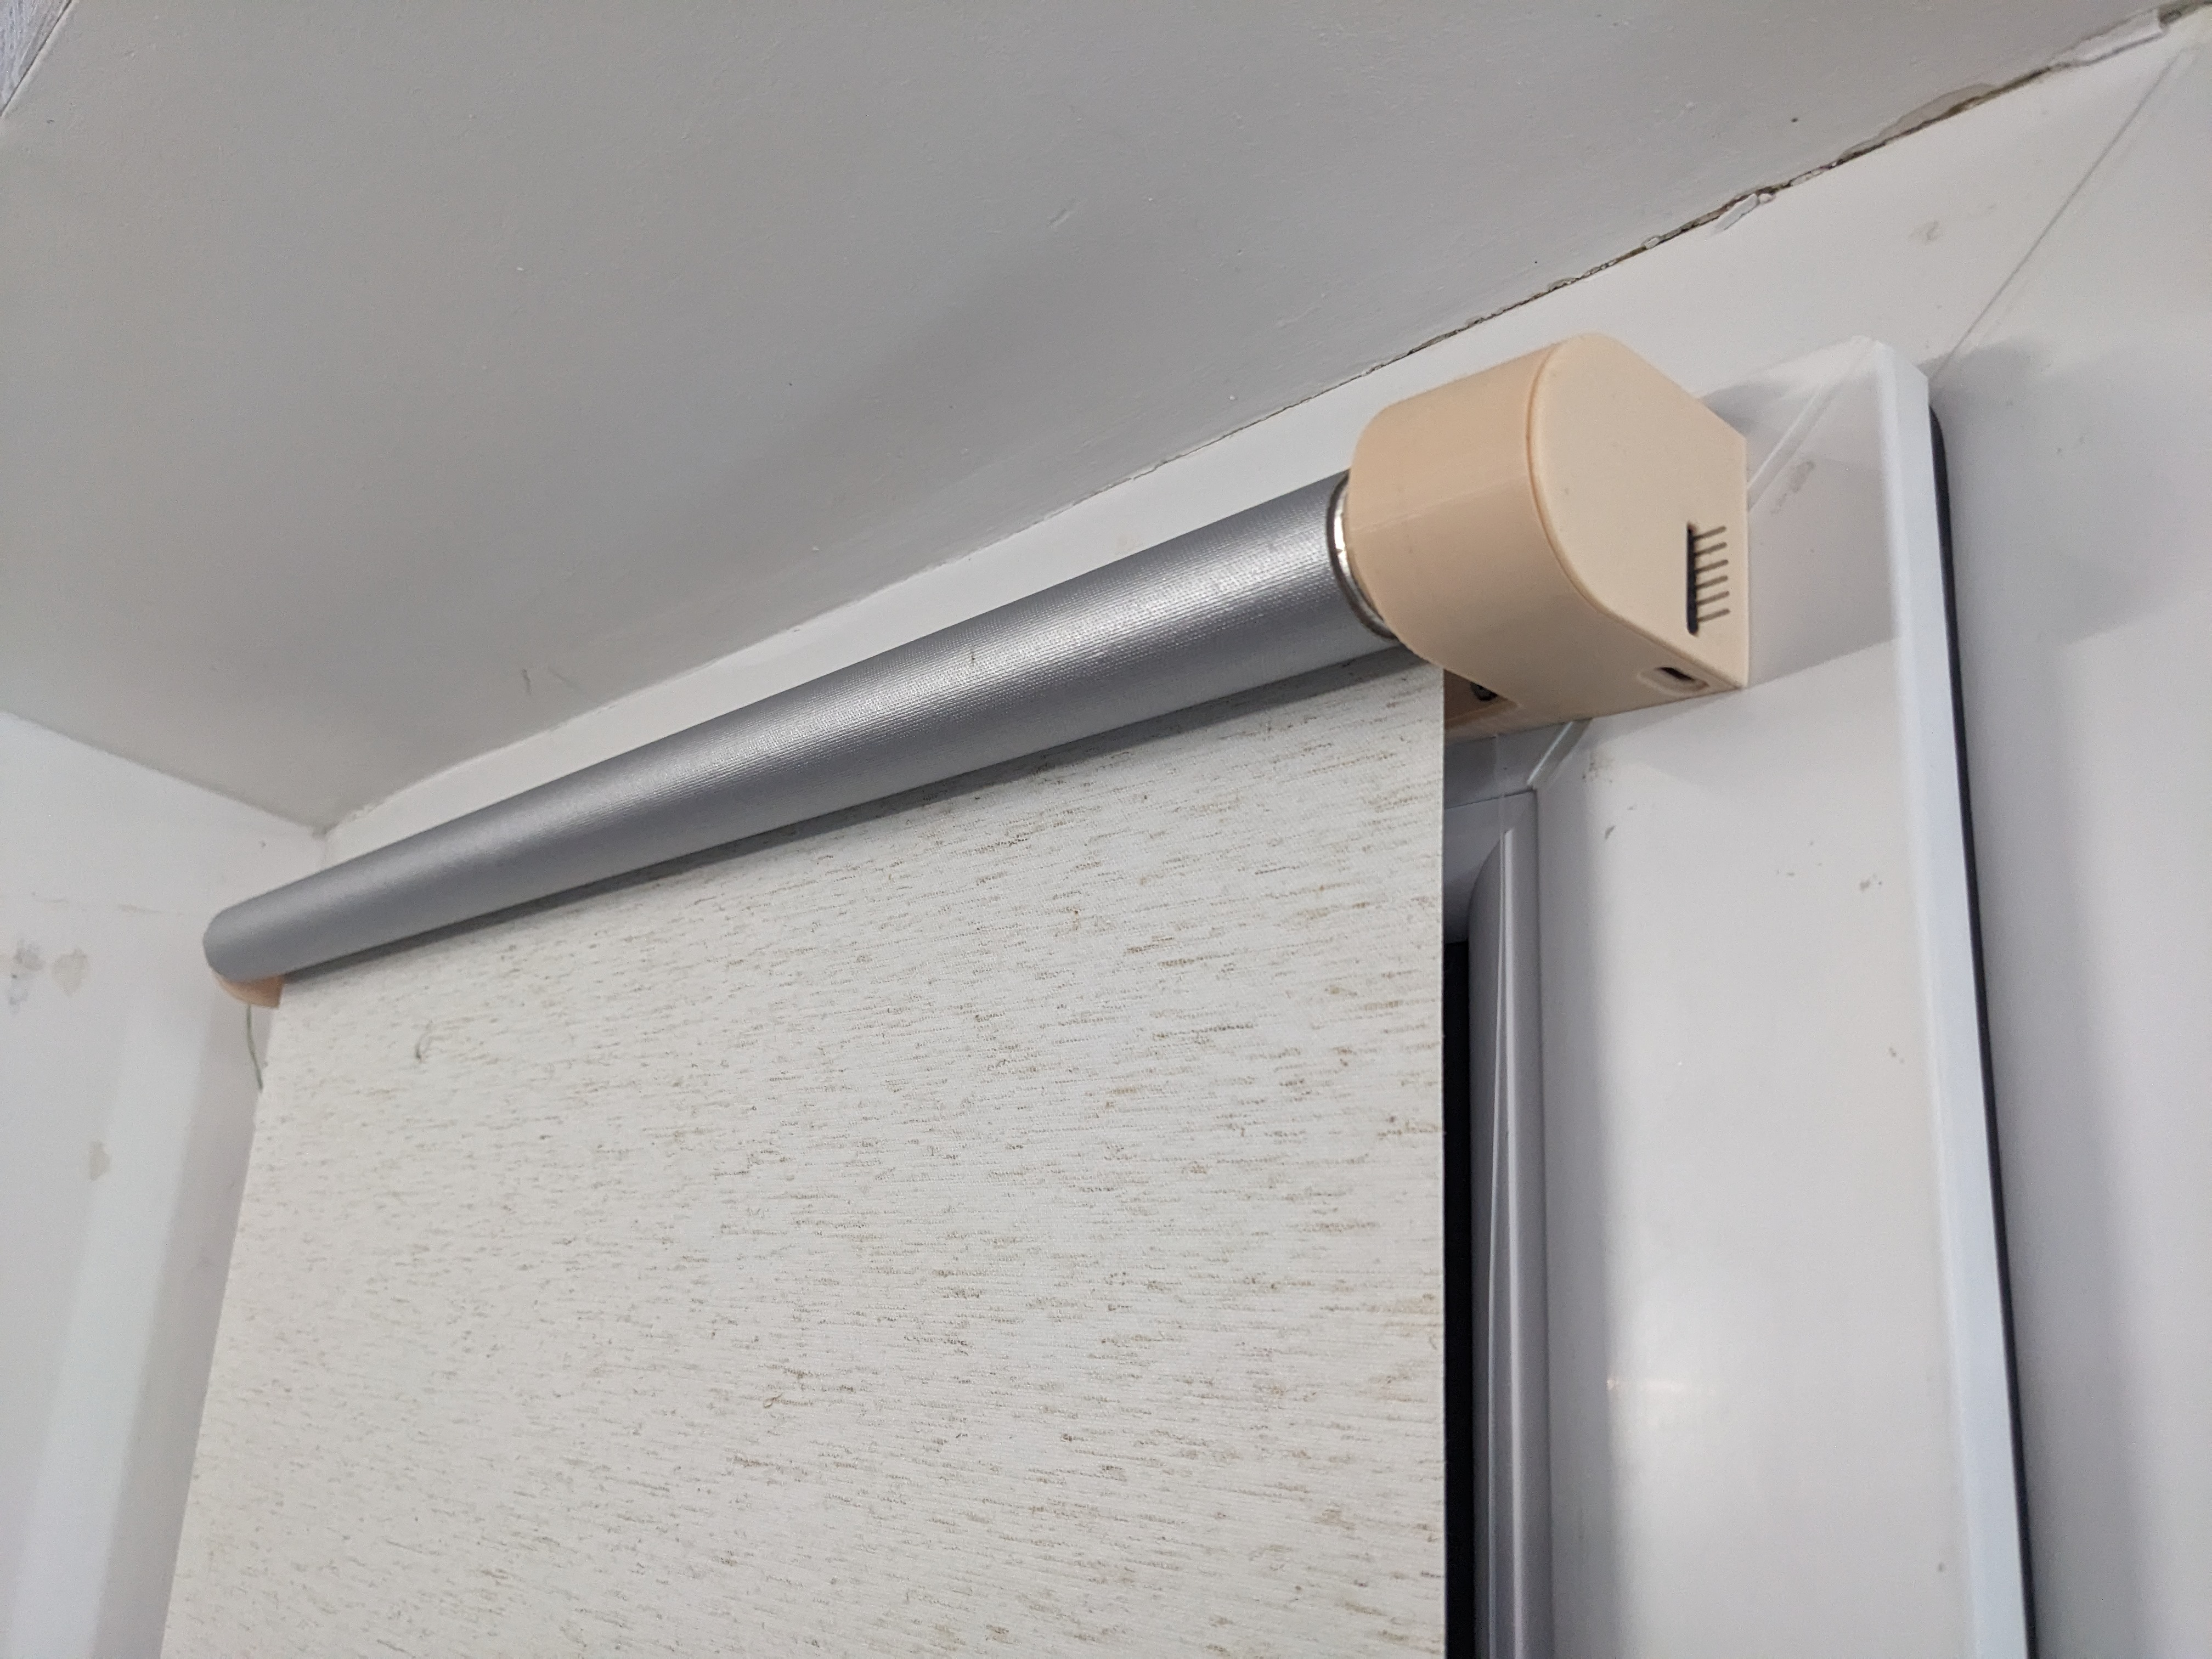
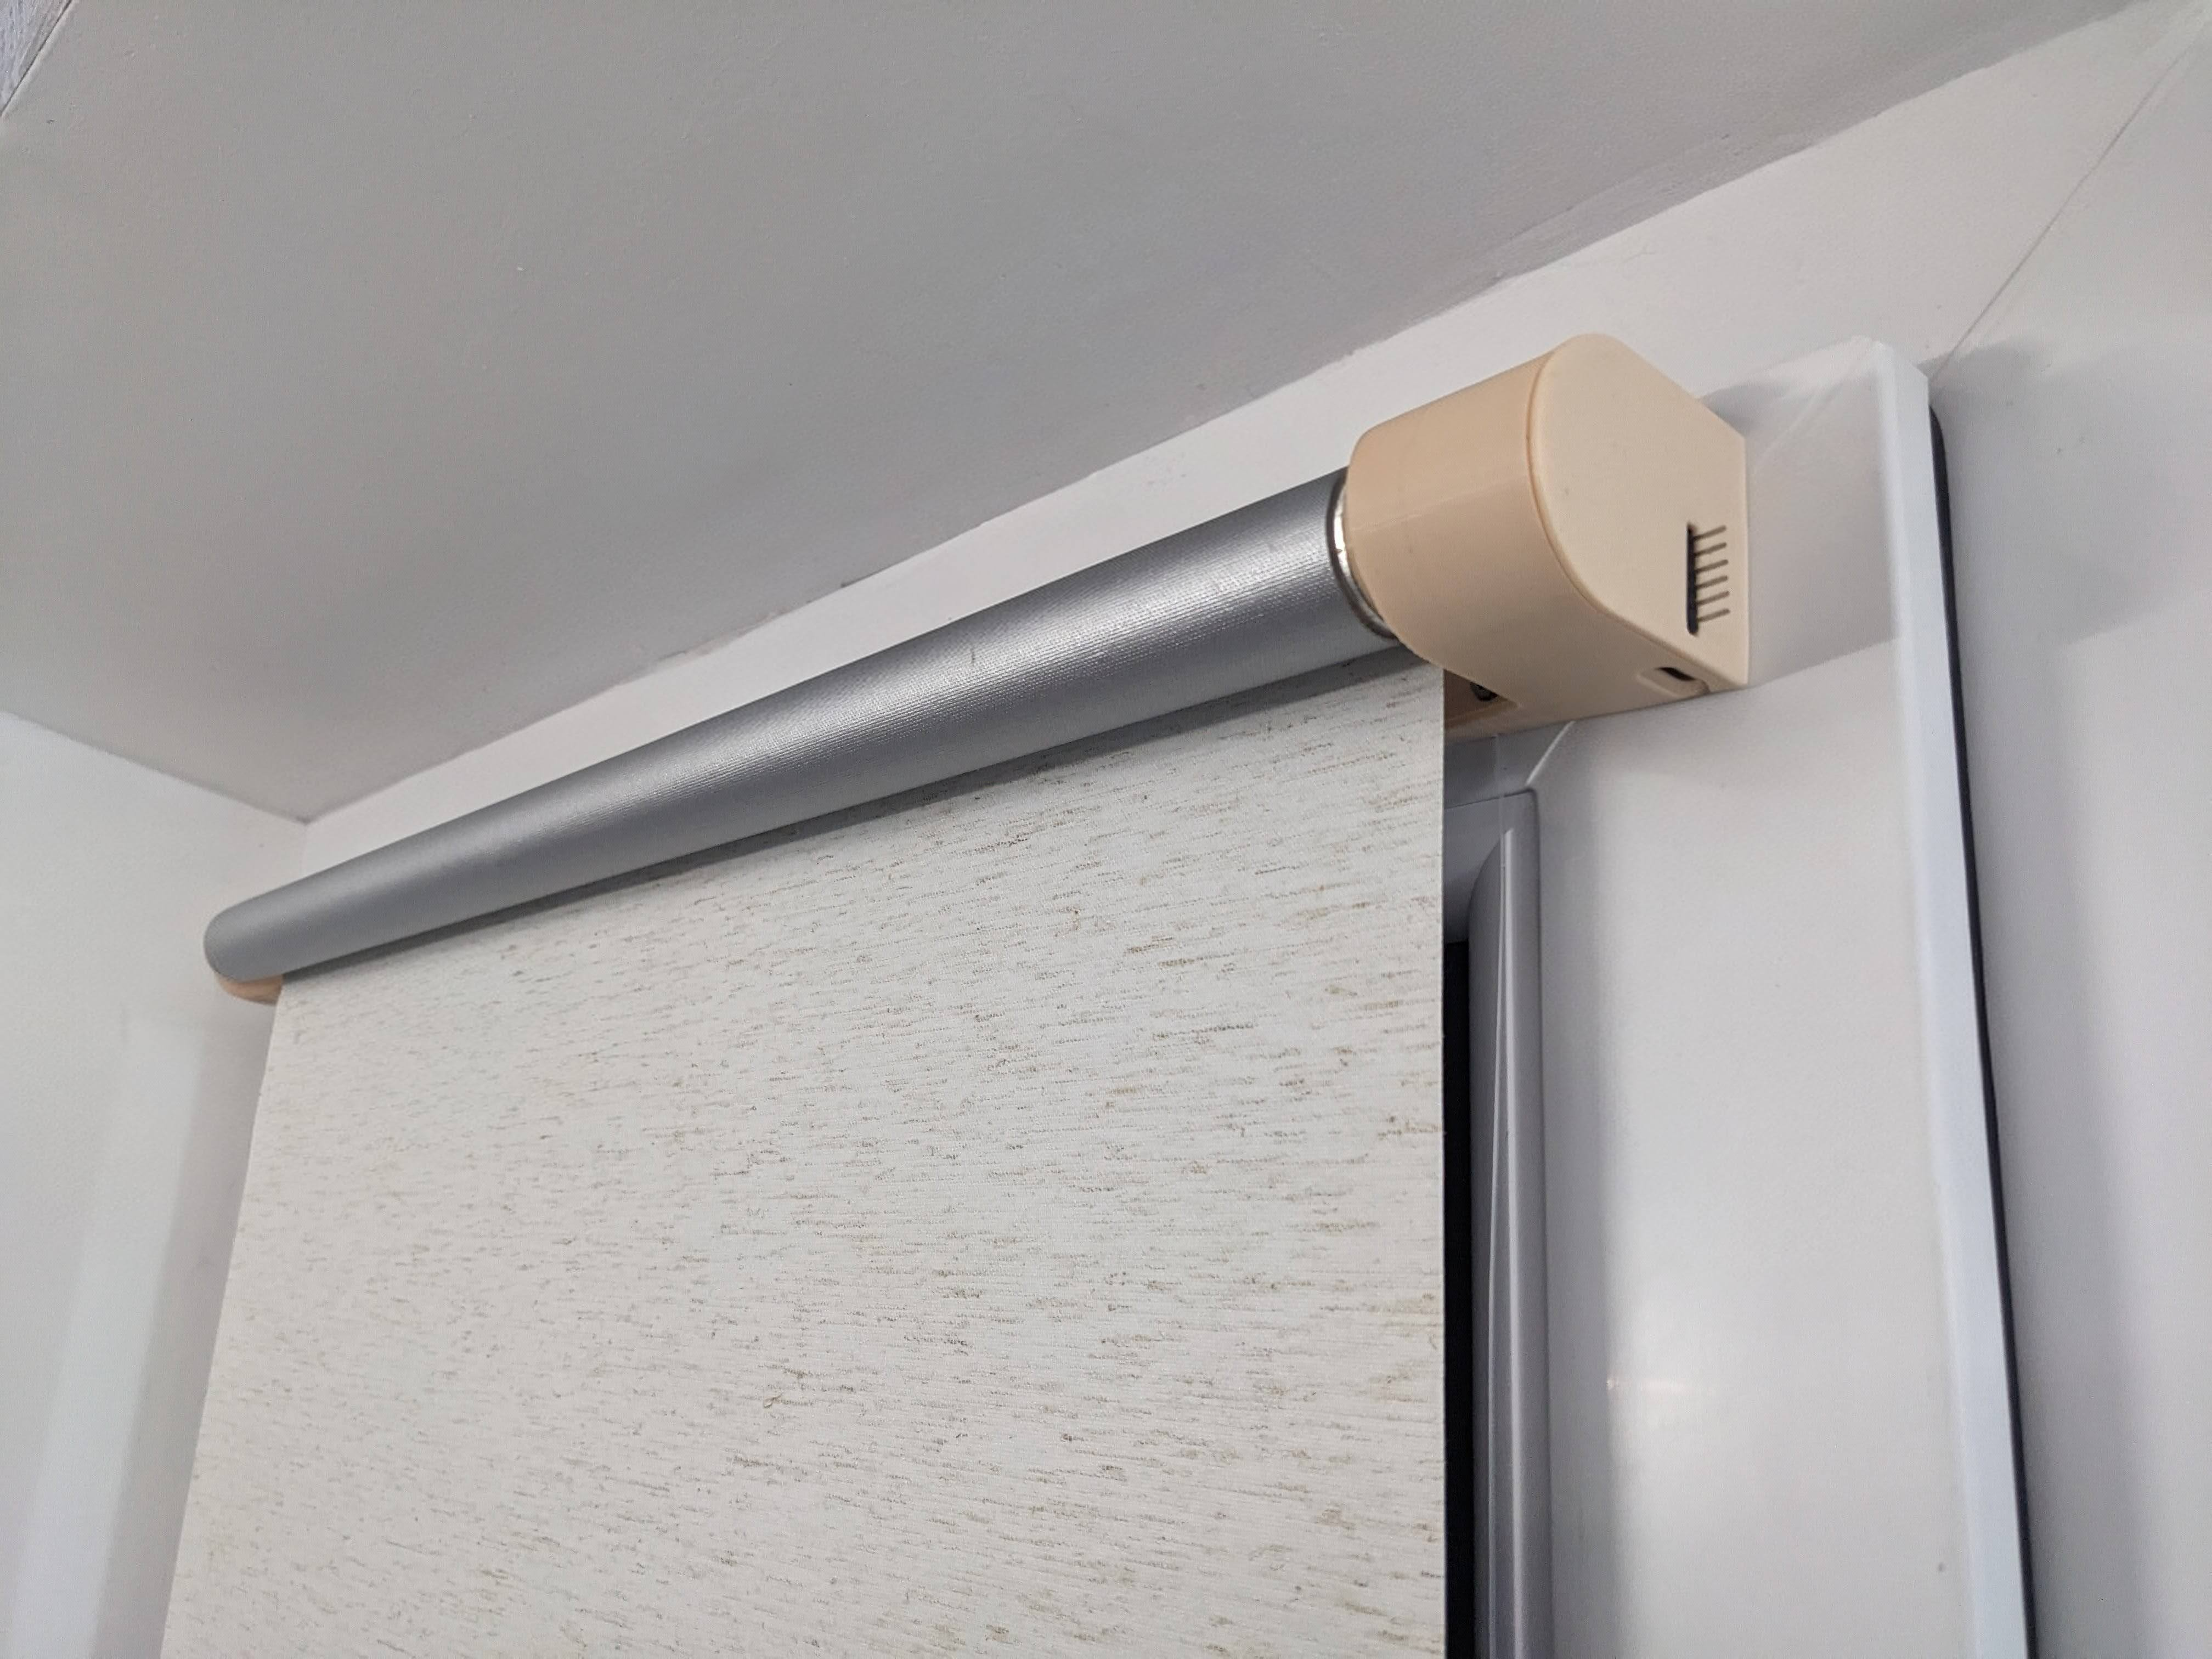
Add gallery to README.md

diff --git a/README.md b/README.md
@@ -1,2 +1,53 @@
 # SmartRollerBlind_Project
 Smart curtain system: Android app (Java) controls ESP8266 via AWS IoT (MQTT). ESP (C++) drives a stepper motor. Custom PCB and 3D-printed case. Full-stack project combining hardware and software.
+
+<h2 align="center">📸 Smart Roller Blind — Image Gallery</h2>
+
+<!-- Main Photos -->
+<h3>🏠 Main Images</h3>
+<p align="center">
+  <img src="https://github.com/Oleksandr-Na-no/SmartRollerBlind_Project/blob/main/Images/Main_img_1.jpg" width="400" />
+  <img src="https://github.com/Oleksandr-Na-no/SmartRollerBlind_Project/blob/main/Images/Main_img_2.jpg" width="400" />
+</p>
+
+<!-- 3D Models -->
+<h3>🧰 3D Models</h3>
+<p align="center">
+  <img src="https://github.com/Oleksandr-Na-no/SmartRollerBlind_Project/blob/main/Images/3d_model_image_1.png" width="300" />
+  <img src="https://github.com/Oleksandr-Na-no/SmartRollerBlind_Project/blob/main/Images/3d_model_image_2.png" width="300" />
+</p>
+
+<!-- PCB Section -->
+<h3>⚡ PCB & Hardware</h3>
+<p align="center">
+  <img src="https://github.com/Oleksandr-Na-no/SmartRollerBlind_Project/blob/main/Images/PCB_3D.png" width="250" />
+  <img src="https://github.com/Oleksandr-Na-no/SmartRollerBlind_Project/blob/main/Images/PCB_3D_Buttom.png" width="250" />
+  <img src="https://github.com/Oleksandr-Na-no/SmartRollerBlind_Project/blob/main/Images/PCB_Buttom.png" width="250" />
+  <img src="https://github.com/Oleksandr-Na-no/SmartRollerBlind_Project/blob/main/Images/PCB_Top.png" width="250" />
+  <img src="https://github.com/Oleksandr-Na-no/SmartRollerBlind_Project/blob/main/Images/Programing_PCB.jpg" width="250" />
+  <img src="https://github.com/Oleksandr-Na-no/SmartRollerBlind_Project/blob/main/Images/Prototype_vs_PCB.jpg" width="250" />
+</p>
+
+<!-- Schematic -->
+<h3>📐 Schematic</h3>
+<p align="center">
+  <img src="https://github.com/Oleksandr-Na-no/SmartRollerBlind_Project/blob/main/Images/Schematic.png" width="500" />
+</p>
+
+<!-- App Screenshots -->
+<h3>📱 App Screenshots</h3>
+<p align="center">
+  <img src="https://github.com/Oleksandr-Na-no/SmartRollerBlind_Project/blob/main/Images/App_Screenshot_1.png" width="200" />
+  <img src="https://github.com/Oleksandr-Na-no/SmartRollerBlind_Project/blob/main/Images/App_Screenshot_2.png" width="200" />
+  <img src="https://github.com/Oleksandr-Na-no/SmartRollerBlind_Project/blob/main/Images/App_Screenshot_3.png" width="200" />
+  <img src="https://github.com/Oleksandr-Na-no/SmartRollerBlind_Project/blob/main/Images/App_Screenshot_4.png" width="200" />
+  <img src="https://github.com/Oleksandr-Na-no/SmartRollerBlind_Project/blob/main/Images/App_Screenshot_5.png" width="200" />
+  <img src="https://github.com/Oleksandr-Na-no/SmartRollerBlind_Project/blob/main/Images/App_Screenshot_6.png" width="200" />
+</p>
+
+<!-- Figma Design -->
+<h3>🎨 Figma Design</h3>
+<p align="center">
+  <img src="https://github.com/Oleksandr-Na-no/SmartRollerBlind_Project/blob/main/Images/Figma.png" width="400" />
+</p>
+